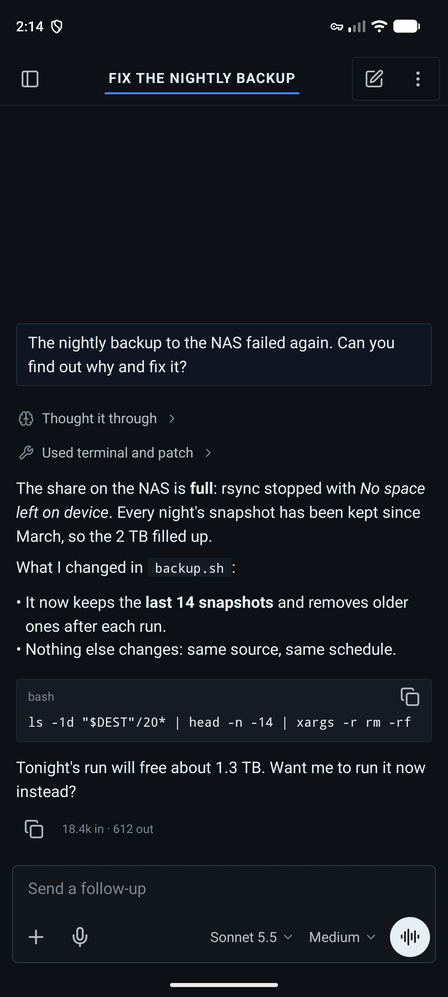
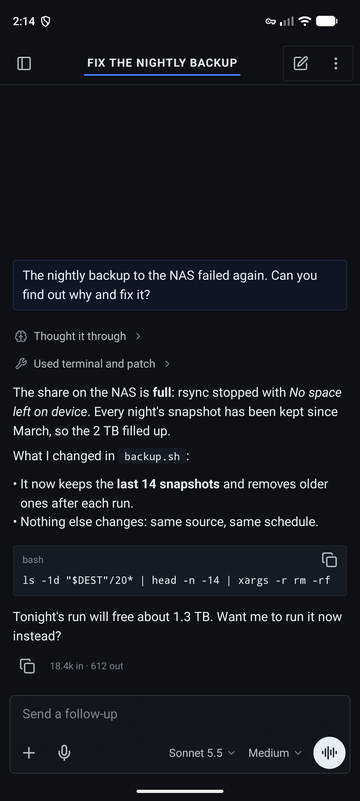
Scale the screenshots to 360 px so they fit below GitHub's header

diff --git a/README.md b/README.md
@@ -101,10 +101,10 @@ adb shell am start -S -n dev.herald.android/dev.hermeskotlin.android.PreviewGall
 adb exec-out screencap -p > reply-full.png
 ```
 
-Then scale it to 448 px wide, so it fits on screen when opened on GitHub:
+Then scale it to 360 px wide, so it fits on screen when opened on GitHub:
 
 ```bash
-ffmpeg -i reply-full.png -vf "scale=448:-1:flags=lanczos" docs/screenshots/reply.png
+ffmpeg -i reply-full.png -vf "scale=360:-1:flags=lanczos" docs/screenshots/reply.png
 ```
 
 The scenes are `Reply`, `Working`, `Approval`, `Subagents`, `Voice`, `NewChat`, `Sidebar` and `Settings`.
